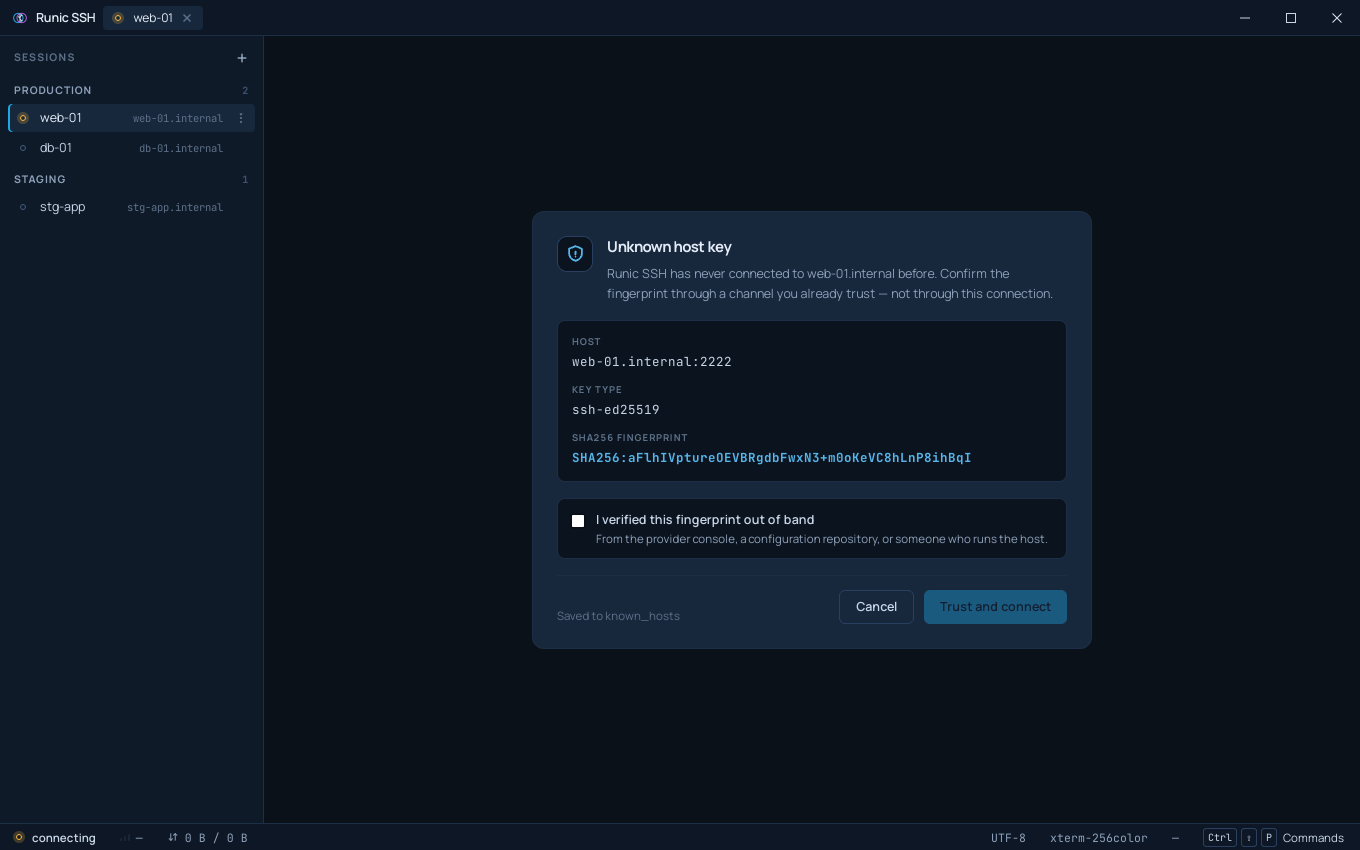
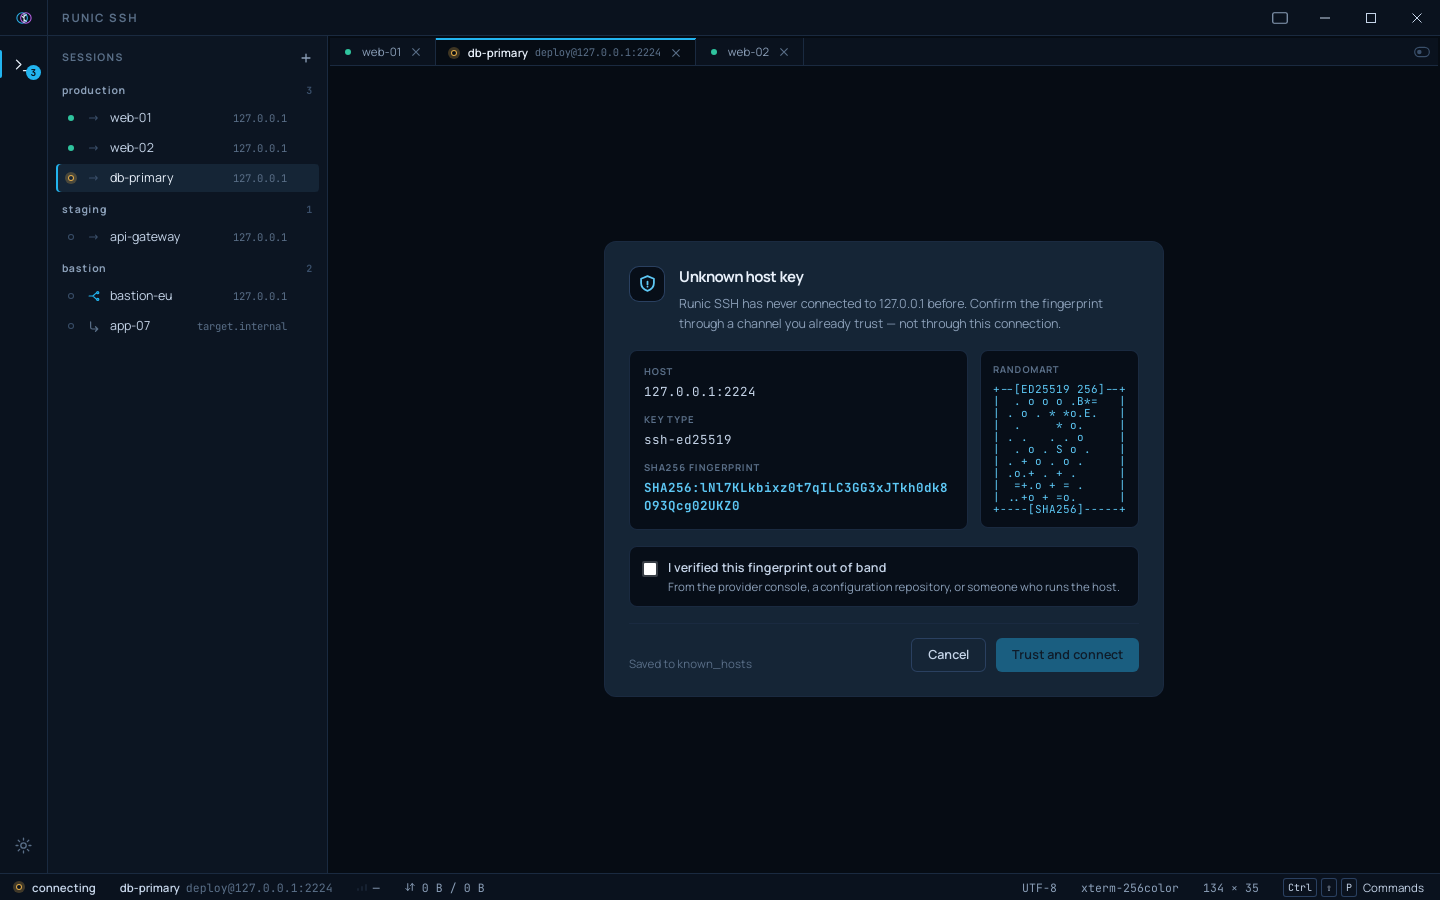
docs: retake the screenshots against the anatomy ADR-0020 fixed
The four captures showed tabs in the title bar, no activity rail and a header
on each pane, which is the shape ADR-0020 replaced. The README said so, which
was honest and was not a fix.

They are the release build from `pnpm tauri build`, run on a virtual display
against the container fixtures on 2222 and 2223, and driven end to end: the
host key screen, the credential window, and commands typed into two live
shells. Both fingerprints were checked against `ssh-keyscan` before the picture
was taken, so the caption's claim about them still holds.

The main pair now shows two hosts in two groups, since that is what this
release added and a single terminal does not show it. Light and dark are the
same moment with the theme switched, so a reader flipping between them is
looking at one window rather than two sessions.

Closes #146.

diff --git a/README.md b/README.md
@@ -95,19 +95,16 @@ thing this project would rather not do.
 
 ## 📸 What it looks like
 
-Both captures are of the packaged application connected to a real SSH server.
-They are not mockups, and not the design canvas. The hosts are invented; the
-fingerprint, the shell and the output are not.
-
-They are also **out of date**. They were taken before the tabs left the title
-bar, so they show the anatomy ADR-0020 replaced. Retaking them needs a packaged
-build driven by hand against a real host, which is why they have not been
-replaced with something cheaper and captioned as if it were the same thing.
+Both captures are of the release build, the same binary the installers carry,
+connected to a real SSH server. They are not mockups, and not the design canvas.
+The hosts are invented; the fingerprints, the shells and the output are not.
+Each fingerprint shown was checked against `ssh-keyscan` before the picture was
+taken.
 
 <picture>
   <source media="(prefers-color-scheme: dark)" srcset="assets/screenshot-main-dark.png">
   <source media="(prefers-color-scheme: light)" srcset="assets/screenshot-main-light.png">
-  <img src="assets/screenshot-main-dark.png" alt="Runic SSH with a connected session: saved hosts grouped in the sidebar, a terminal, and a status bar" width="880">
+  <img src="assets/screenshot-main-dark.png" alt="Runic SSH with two hosts open side by side: the activity rail, saved hosts grouped in the sidebar, two groups each with its own strip of tabs, and a status bar naming the focused host" width="880">
 </picture>
 
 **An unknown host key.** The primary button starts inert and stays that way

diff --git a/CHANGELOG.md b/CHANGELOG.md
@@ -111,8 +111,6 @@ with the caveat that anything below 1.0 may break, and this project intends to.
   between groups. Both go through the command palette.
 - SFTP has no code behind it, so the rail carries one view rather than the three
   the design canvas draws. The icon arrives with the feature.
-- The screenshots below the feature list are of the previous anatomy, taken
-  before the tabs left the title bar.
 
 ## [0.1.1] — 2026-08-23
 
